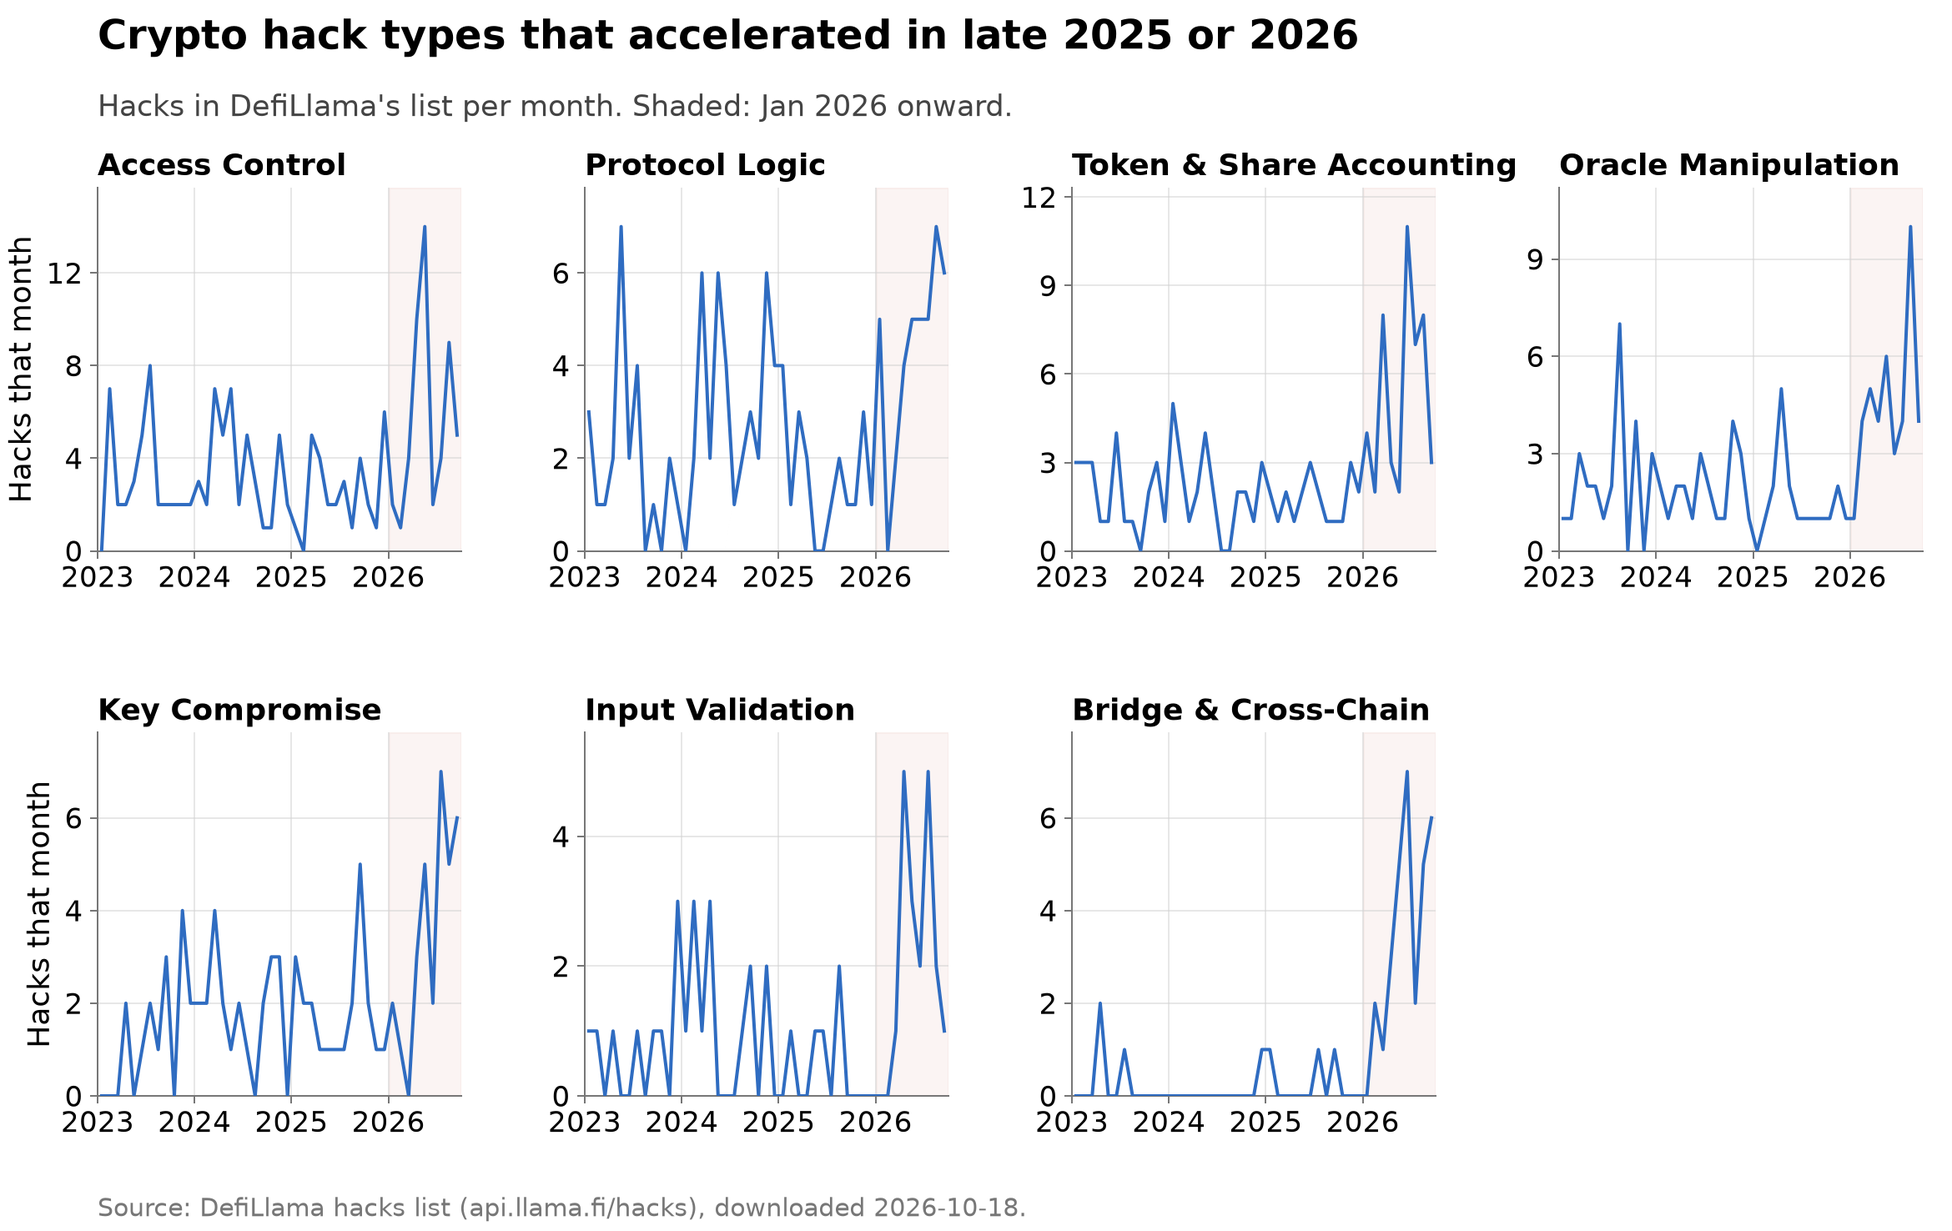
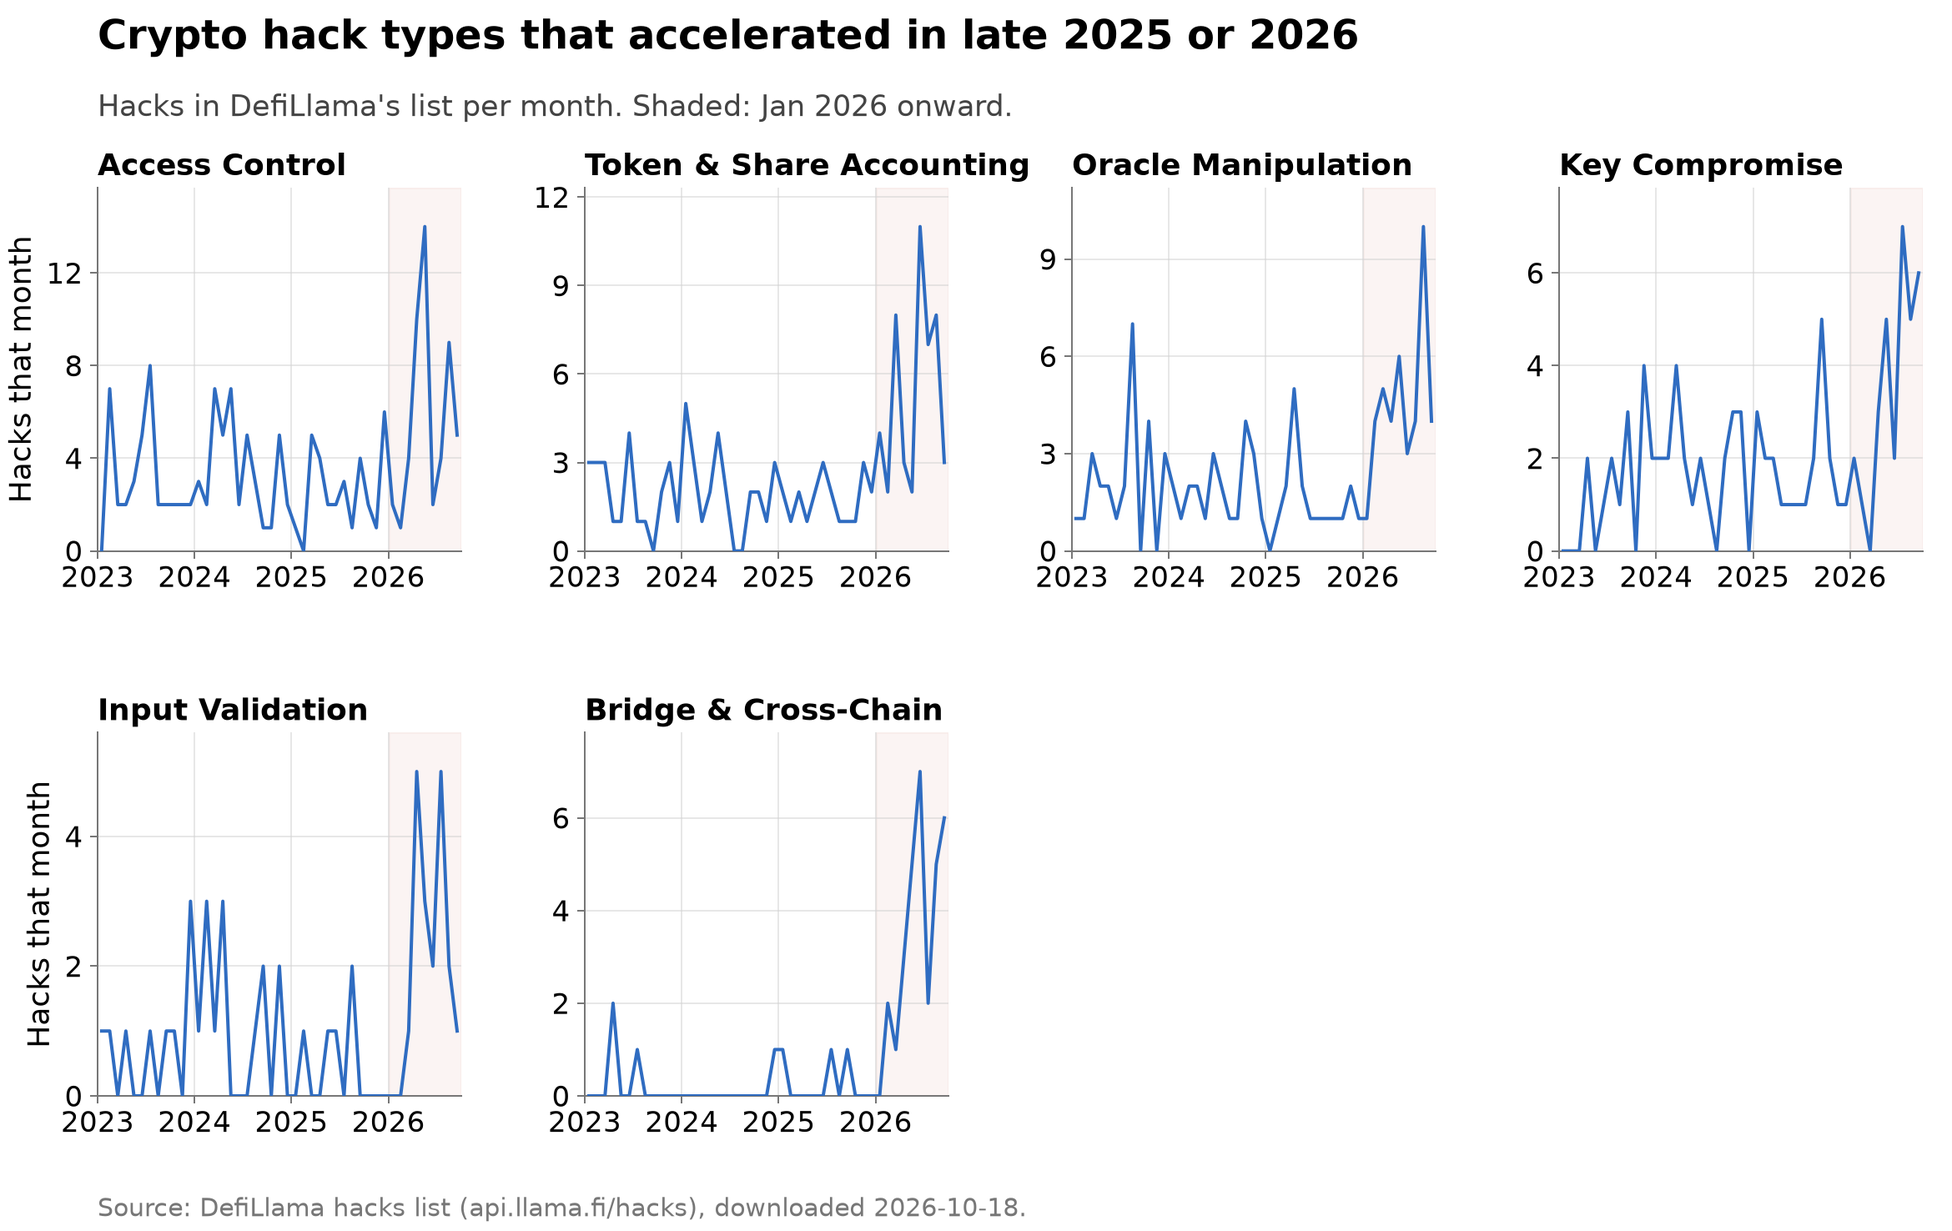
Stripe partial periods; move Protocol Logic to not-accelerated
- Draw incomplete months and quarters as diagonal stripes in the bar's
  own colour on white, instead of a dark outline (fig08-fig12, fig19,
  fig31, fig32, and the yearly Pangram chart).
- End the quarterly and monthly Pangram charts at March 2026: after it
  the archive has no victim messages and only 2 attacker messages.
- Show Protocol Logic with the hack types that did not accelerate, by
  the authors' judgement, although it passes the kink rule
  (NOT_ACCELERATED in v13; noted in the README).
- Rebuild the figures and dvc.lock with dvc repro.

diff --git a/code/attacker_text/analyze.py b/code/attacker_text/analyze.py
@@ -6,8 +6,8 @@ Output: <proc_dir>/pangram_trends_by_year.csv   one row per period x sample x cu
         <proc_dir>/pangram_trends_by_period.csv the three-period table (2020-22, 2023-24, 2025-26) used in the memo
         <proc_dir>/pangram_flagged_messages.md  every flagged message in full, with Pangram's window labels
         figures/attacker_text/pangram_flags_over_time.png          by year, 2020 to 2026
-        figures/attacker_text/pangram_flags_2025_2026_quarterly.png by quarter, 2025 to 2026
-        figures/attacker_text/pangram_flags_2025_2026_monthly.png   by month, 2025 to 2026 (sparse; for inspection)
+        figures/attacker_text/pangram_flags_2025_2026_quarterly.png by quarter, Jan 2025 to Mar 2026
+        figures/attacker_text/pangram_flags_2025_2026_monthly.png   by month, Jan 2025 to Mar 2026 (sparse; for inspection)
 Samples present in the results file are each summarised: A_primary (attacker messages) always,
 victim (the comparator) when it has been run. They are never pooled.
 
@@ -46,6 +46,9 @@ rng = np.random.default_rng(20261019)
 # Dropped from the figure only (the tables keep it): a 2021 Conti victim's formally worded request to
 # remove a deadline, labelled Mixed at low confidence. Pre-ChatGPT, so a false positive; see the memo.
 FIGURE_EXCLUDED = {"519094c72735db8e-0033"}
+# The quarterly and monthly figures stop here: after March 2026 the archive has no victim messages
+# and only 2 attacker messages (Aug 2026, neither flagged). The yearly figure keeps them.
+RECENT_END = "2026-03"
 
 
 def cluster_bootstrap(flags: pd.Series, clusters: pd.Series, draws: int = 2000) -> tuple[float, float]:
@@ -112,9 +115,10 @@ def style_bar_panel(ax, title: str, color: str, labels: list[str], label_size: f
 
 
 def bar(ax, i: int, share: float, color: str, partial: bool, note: str, note_size: float, width: float = 0.62) -> None:
-    ax.bar(i, share, width=width, color=color, zorder=3)
-    if partial:  # outlined, as the incomplete month is in the DefiLlama charts
-        ax.bar(i, share, width=width, facecolor="none", edgecolor=GRAY, linewidth=1.3, zorder=4)
+    if partial:  # hatched in its colour on white, as the incomplete month is in the DefiLlama charts
+        ax.bar(i, share, width=width, facecolor="white", edgecolor=color, hatch="////", linewidth=1.3, zorder=3)
+    else:
+        ax.bar(i, share, width=width, color=color, zorder=3)
     ax.text(i, -0.07, note, ha="center", va="top", fontsize=note_size, color=AXIS_GRAY, transform=ax.get_xaxis_transform())
 
 
@@ -131,9 +135,9 @@ def figure_header(fig, title: str, subtitle: str) -> None:
 
 
 def draw_recent(panels: dict[str, pd.DataFrame], version: str, freq: str, fname: str) -> None:
-    """Flag share by quarter ("Q") or month ("M") from January 2025. Monthly bins hold a handful of messages each."""
+    """Flag share by quarter ("Q") or month ("M"), January 2025 to RECENT_END. Monthly bins hold a handful of messages each."""
     monthly = freq == "M"
-    bins = pd.period_range("2025-01", "2026-10", freq=freq)
+    bins = pd.period_range("2025-01", RECENT_END, freq=freq)
     if monthly:
         labels = [p.strftime("%b\n%Y") if p.month == 1 else p.strftime("%b") for p in bins]
     else:
@@ -150,11 +154,10 @@ def draw_recent(panels: dict[str, pd.DataFrame], version: str, freq: str, fname:
                 bar(ax, i, 0, color, False, "no\nmsgs", FS_NOTE - 3)
             else:
                 note = f"{int(k)}/{int(n)}" if monthly else f"{int(k)}/{int(n)}\n{int(chats)} chats"
-                bar(ax, i, k / n, color, i == len(bins) - 1, note, FS_NOTE - 3 if monthly else FS_NOTE, width=0.72)
+                bar(ax, i, k / n, color, False, note, FS_NOTE - 3 if monthly else FS_NOTE, width=0.72)
         style_bar_panel(ax, title, color, labels, FS_TICK - 3 if monthly else FS_TICK)
     axes[0].set_ylim(0, 1.0 if monthly else 0.5)
     axes[0].set_ylabel("Share of messages flagged", fontsize=FS_AXIS)
-    axes[1].text(0.98, 0.97, "Latest bin is partial:\nthrough Oct 19, 2026", transform=axes[1].transAxes, fontsize=FS_NOTE, color="#555555", ha="right", va="top")
     fig.subplots_adjust(left=0.065, right=0.985, top=0.78, bottom=0.19, wspace=0.08)
     fig.savefig(FIGS / fname, dpi=180, facecolor="white")
     plt.close(fig)

diff --git a/code/v10_fig_trackers_quarterly.py b/code/v10_fig_trackers_quarterly.py
@@ -13,7 +13,8 @@ amount given where a tracker leaves some blank), so a bar's full height is all i
 monthly totals by type, so its bars are one colour (slate, METR's colour for a count with no
 split) and count the "Exploit" type. Range 2022Q1 to 2026Q3, the last complete quarter, on
 the same x-axis in every graph; CertiK and BlockSec start in 2023. A quarter a tracker has
-not fully published (BlockSec's 2026Q3) is outlined and labelled, as in METR's charts.
+not fully published (BlockSec's 2026Q3) is hatched (diagonal lines in each layer's colour on
+white) and labelled, as v09 does for a part month.
 
 Run: uv run python -I code/v10_fig_trackers_quarterly.py  (or: uv run dvc repro)
 """
@@ -102,31 +103,41 @@ def last_covered(src):
     return dates[0]
 
 
+def hatch_partial(bars, partial, color):
+    """Redraw the bars of incomplete periods as diagonal lines in their colour on white, so a
+    part period stands apart from the solid complete ones, as in v09. partial: one flag per bar."""
+    for bar, p in zip(bars, partial):
+        if p:
+            bar.set(facecolor="white", edgecolor=color, hatch="////", linewidth=1.1)
+
+
 def figure(d, src, fname, title, subtitle, site):
     fig, ax = plt.subplots(figsize=(8.4, 5.2))
     fig.suptitle(title, x=0.12, y=0.985, ha="left", fontsize=FS_TITLE, fontweight="bold")
     ax.set_title(subtitle, loc="left", fontsize=FS_SUBTITLE, color="#444444", pad=14)
 
     width = 0.86 / 4
+    # A part quarter's bar is hatched so it doesn't read as a collapse.
     if d["big"].notna().any():
-        ax.bar(d["x"], d["big"], width=width, color=BLUE, label=r"\$1M or more", zorder=3)
+        bars = ax.bar(d["x"], d["big"], width=width, color=BLUE, label=r"\$1M or more",
+                      zorder=3)
+        hatch_partial(bars, d["partial"], BLUE)
         # rekt.news and BlockSec give an amount for every incident in range.
         rest = r"under \$1M or no amount" if d["no_amount"].sum() else r"under \$1M"
-        ax.bar(d["x"], d["rest"], bottom=d["big"], width=width, color=RED, label=rest,
-               zorder=3)
+        bars = ax.bar(d["x"], d["rest"], bottom=d["big"], width=width, color=RED, label=rest,
+                      zorder=3)
+        hatch_partial(bars, d["partial"], RED)
     else:
-        ax.bar(d["x"], d["rest"], width=width, color=SLATE, zorder=3)
+        bars = ax.bar(d["x"], d["rest"], width=width, color=SLATE, zorder=3)
+        hatch_partial(bars, d["partial"], SLATE)
 
     left, right = START.year - 0.06, END.year + END.quarter / 4 + 0.06
     ax.set_xlim(left, right)
     ylim = d["total"].max() * 1.24
     if d["partial"].any():
-        # A part quarter's bar is outlined and labelled so it doesn't read as a collapse. The
-        # label sits above the last two years of bars, right-aligned over the part bar, below
-        # the "Jan 2026 onward" label (top ~10% of the axes).
-        p = d[d["partial"]].iloc[-1]
-        ax.bar([p["x"]], [p["total"]], width=width, facecolor="none", edgecolor="#444444",
-               linewidth=1.1, zorder=4)
+        # Label the hatched part quarter. The label sits above the last two years of bars,
+        # right-aligned over the part bar, below the "Jan 2026 onward" label (top ~10% of the
+        # axes).
         note_y = d["total"].iloc[-8:].max() * 1.05
         ylim = max(ylim, note_y / 0.74)
         ax.text(right - (right - ERA_START) * 0.025, note_y,

diff --git a/code/ransomware/fig_ransomware_metr.py b/code/ransomware/fig_ransomware_metr.py
@@ -19,7 +19,7 @@ one-off backlog. It counts each (victim, gang) pair once. fig32 stacks US attack
 by a data-breach notice (red) on all other confirmed attacks (blue); the red part is the kind
 of confirmation that arrives last, so recent months are low partly because notices haven't
 been filed yet. October 2026 is incomplete (downloaded 19 October), so in the monthly graphs
-its bar is outlined and labelled, as in METR's charts. fig35 stops at 2026Q3, the last
+its bar is hatched (diagonal lines in each layer's colour on white) and labelled. fig35 stops at 2026Q3, the last
 complete quarter, as v10 does: a count of distinct groups in a part quarter isn't comparable.
 It counts group names as ransomware.live records them, so a renamed gang counts as a new group.
 
@@ -88,6 +88,14 @@ def series(src, freq, start):
     return m
 
 
+def hatch_partial(bars, partial, color):
+    """Redraw the bars of incomplete periods as diagonal lines in their colour on white, so a
+    part period stands apart from the solid complete ones, as in v09. partial: one flag per bar."""
+    for bar, p in zip(bars, partial):
+        if p:
+            bar.set(facecolor="white", edgecolor=color, hatch="////", linewidth=1.1)
+
+
 def figure(m, fname, title, subtitle, ylabel, source, layers):
     fig, ax = plt.subplots(figsize=(8.4, 5.2))
     fig.suptitle(title, x=0.12, y=0.985, ha="left", fontsize=FS_TITLE, fontweight="bold")
@@ -95,9 +103,13 @@ def figure(m, fname, title, subtitle, ylabel, source, layers):
 
     per_year = m.attrs["per_year"]
     width = 0.86 / per_year
+    # The last month may be incomplete: hatch its bar so it doesn't read as a collapse.
+    partial = [False] * (len(m) - 1) + [m.attrs["partial"]]
     bottom = 0
     for col, color, label in layers:
-        ax.bar(m["x"], m[col], bottom=bottom, width=width, color=color, label=label, zorder=3)
+        bars = ax.bar(m["x"], m[col], bottom=bottom, width=width, color=color, label=label,
+                      zorder=3)
+        hatch_partial(bars, partial, color)
         bottom = bottom + m[col]
     total = bottom
     if per_year == 12:
@@ -109,11 +121,9 @@ def figure(m, fname, title, subtitle, ylabel, source, layers):
     # Quarterly bars reach the top right, so leave room for the era label, as v10 does.
     ylim = total.max() * (1.3 if has_legend else 1.12 if per_year == 12 else 1.24)
     if m.attrs["partial"]:
-        # The last month is incomplete: outline its bar and say so, so it doesn't read as a
-        # collapse. Note above the last two years of bars, right-aligned over the partial one,
-        # below the "Jan 2026 onward" label (top ~10% of the axes), as in v09.
-        ax.bar([m["x"].iloc[-1]], [total.iloc[-1]], width=width, facecolor="none",
-               edgecolor="#444444", linewidth=1.1, zorder=4)
+        # Say the hatched month is partial. Note above the last two years of bars,
+        # right-aligned over the partial one, below the "Jan 2026 onward" label (top ~10% of
+        # the axes), as in v09.
         note_y = total.iloc[-2 * per_year:].max() * 1.05
         ylim = max(ylim, note_y / 0.74)
         ax.text(right - (right - ERA_START) * 0.025, note_y,

diff --git a/code/v09_fig_defillama_monthly_hacks.py b/code/v09_fig_defillama_monthly_hacks.py
@@ -15,7 +15,7 @@ switched off), "small" means under $4.5M (the 75th percentile of amounts since 2
 hacks with no amount count in the hack total but not as small. Unlike the Stata graphs,
 months with no hacks (only May 2020) are plotted as 0 rather than skipped.
 Blue = all hacks, red = small hacks. October 2026 is incomplete (downloaded 18 Oct), so its
-bar is outlined and labelled, as in METR's charts.
+bar is hatched (diagonal lines in the bar's colour on white) and labelled.
 
 Run: uv run python -I code/v09_fig_defillama_monthly_hacks.py  (or: uv run dvc repro)
 """
@@ -82,6 +82,14 @@ def event_lines(ax, events, top):
         ax.legend(loc="upper left", frameon=False, fontsize=FS_NOTE, handlelength=2.2)
 
 
+def hatch_partial(bars, partial, color):
+    """Redraw the bars of incomplete periods as diagonal lines in their colour on white, so a
+    part period stands apart from the solid complete ones. partial: one flag per bar."""
+    for bar, p in zip(bars, partial):
+        if p:
+            bar.set(facecolor="white", edgecolor=color, hatch="////", linewidth=1.1)
+
+
 def style(ax, xlabel, ylabel):
     """Axis styling, as in METR's style()."""
     ax.set_xlabel(xlabel, fontsize=FS_AXIS)
@@ -105,11 +113,9 @@ def figure(m, col, color, title, subtitle, ylabel, fname, events=()):
     fig, ax = frame(title, subtitle)
 
     width = 0.86 / 12
-    ax.bar(m["x"], m[col], width=width, color=color, zorder=3)
-    # The last month is incomplete: outline its bar and say so, so it doesn't read as a collapse.
-    x_last, y_last = m["x"].iloc[-1], m[col].fillna(0).iloc[-1]
-    ax.bar([x_last], [y_last], width=width, facecolor="none", edgecolor="#444444",
-           linewidth=1.1, zorder=4)
+    bars = ax.bar(m["x"], m[col], width=width, color=color, zorder=3)
+    # The last month is incomplete: hatch its bar and say so, so it doesn't read as a collapse.
+    hatch_partial(bars, [False] * (len(m) - 1) + [True], color)
     left, right = m["x"].iloc[0] - 1 / 12, m["x"].iloc[-1] + 1.5 / 12
     ax.set_xlim(left, right)
     # The note sits above the recent bars, right-aligned over the partial one, as in

diff --git a/code/v13_fig_defillama_hacks_by_type.py b/code/v13_fig_defillama_hacks_by_type.py
@@ -6,8 +6,8 @@ fig08-fig12 (v09).
 
 Input:  data/processed/defillama_hacks_raw.csv (from v08)
         data/processed/changepoint_by_class_results.csv (kink fits, from v27)
-Output: figures/fig36_defillama_hacks_by_type_accelerated_counts.png      7 types
-        figures/fig37_defillama_hacks_by_type_not_accelerated_counts.png  6 types
+Output: figures/fig36_defillama_hacks_by_type_accelerated_counts.png      6 types
+        figures/fig37_defillama_hacks_by_type_not_accelerated_counts.png  7 types
 
 The kink model (v21.kink): log-rate = a + b*t + d*max(0, t - t0), a negative-binomial fit
 with the kink month t0 profiled over Jul 2024 - Jul 2026. The rate's growth factor per year
@@ -25,6 +25,10 @@ best-fit Aug 2025, Bridge & Cross-Chain Jul 2024, each with 2026 months fitting 
 well). Governance and Market Manipulation have too few hacks to fit (under 25) and go in the
 second figure untested; Governance's counts do rise (2 a month from Jun 2026, after 5 single
 hacks over 2023-2025).
+
+The rule is overridden for the types in NOT_ACCELERATED, which go in the second figure by the
+authors' judgement. Protocol Logic passes all three tests, but the authors read it as not
+accelerating (23 Oct 2026).
 
 As in the do-file: months with no hacks of a type are 0, each panel has its own y-axis, and
 October 2026 (data to the 16th) is left out. The one hack with no classification (Locus
@@ -49,6 +53,7 @@ COLS = 4
 FIT = "#D98F6E"  # fitted line, as in fig29
 LR_MIN = 4.0
 ACCEL_WINDOW = pd.period_range("2025-10", "2026-06", freq="M")
+NOT_ACCELERATED = {"Protocol Logic"}  # judged not accelerated, whatever the rule says
 
 
 def kink_results():
@@ -68,7 +73,8 @@ def accelerated(r):
 
 def split(res):
     """(types that accelerated, types that did not), each largest type first."""
-    flags = res.apply(accelerated, axis=1)
+    assert NOT_ACCELERATED <= set(res.index), f"unknown type in {NOT_ACCELERATED}"
+    flags = res.apply(accelerated, axis=1) & ~res.index.isin(NOT_ACCELERATED)
     return list(res.index[flags]), list(res.index[~flags])
 
 

diff --git a/README.md b/README.md
@@ -30,7 +30,7 @@ uv installs Python 3.12 and the pinned packages into a local `.venv`. [DVC](http
 
 ## Methods in brief
 
-- **Crypto hacks (figures 8–12, 36, 37).** DeFiLlama's hack list, downloaded 18 October 2026: 1,306 incidents from 2011 on, each with a date, amount and cause. Monthly counts from January 2020; "small" hacks are those under $4.5 million. The exploit-type split fits each of DeFiLlama's 13 cause categories with a trend that may bend once (a negative-binomial fit with a constant growth rate before and after a kink month, profiled over July 2024 to July 2026). A type counts as *accelerated* when the bent trend beats a straight one by more than 4 log-likelihood units, growth is faster after the bend, and some month between October 2025 and June 2026 fits within 2 log-likelihood units of the best bend. The rule and its reasons are in the docstring of `code/v13_fig_defillama_hacks_by_type.py`; the fits come from `code/v27_changepoint_by_class.py`, which uses the model in `code/v21_did_changepoint_events.py`.
+- **Crypto hacks (figures 8–12, 36, 37).** DeFiLlama's hack list, downloaded 18 October 2026: 1,306 incidents from 2011 on, each with a date, amount and cause. Monthly counts from January 2020; "small" hacks are those under $4.5 million. The exploit-type split fits each of DeFiLlama's 13 cause categories with a trend that may bend once (a negative-binomial fit with a constant growth rate before and after a kink month, profiled over July 2024 to July 2026). A type counts as *accelerated* when the bent trend beats a straight one by more than 4 log-likelihood units, growth is faster after the bend, and some month between October 2025 and June 2026 fits within 2 log-likelihood units of the best bend. Protocol Logic passes this rule but is shown with the types that did not accelerate, by the authors' judgement. The rule and its reasons are in the docstring of `code/v13_fig_defillama_hacks_by_type.py`; the fits come from `code/v27_changepoint_by_class.py`, which uses the model in `code/v21_did_changepoint_events.py`.
 - **Other crypto trackers (appendix A, figures 13–19).** Quarterly counts per tracker from 2022. Each tracker's 2026 Q2–Q3 average is compared with the trend of its own 2022–25 counts and with its busiest earlier quarter. The trend test is in `code/v11_tracker_trend_check.py` (four trend versions; "acceleration" only if all four agree). BlockSec publishes with a delay, so its 2026 Q3 is left out.
 - **Ransomware (figures 31, 32, 35).** ransomware.live records victims named on gangs' leak sites; counts are by month of posting, and "groups" are gangs that named at least one victim in the quarter. Comparitech's Ransomware Intelligence Platform records only attacks confirmed by a victim statement, breach notice or news report; counts are by month of the attack, so recent months fill in late.
 - **AI use in negotiations (figure in `figures/attacker_text/`, appendix B).** The [Casualtek/Ransomchats](https://github.com/Casualtek/Ransomchats) corpus at commit `ba5c3281` (21 September 2026): 276 chats, 12,889 messages, 31 gangs. Attacker messages were kept if they could be dated, were English prose of 50+ words, and were not a template repeated across chats (344 messages); victim messages were scored the same way as a comparator (704). Each text was scored once by Pangram 4.1 (`code/attacker_text/pangram_classify.py`, responses cached in `data/processed/attacker_text/pangram_cache/`). A message is "flagged" when Pangram's document label is AI or Mixed. `code/attacker_text/typography.py` counts curly quotes, em dashes and non-breaking hyphens as a detector-free marker. All flagged messages, with dates and labels, are in `data/processed/attacker_text/pangram_flagged_messages.csv`.
